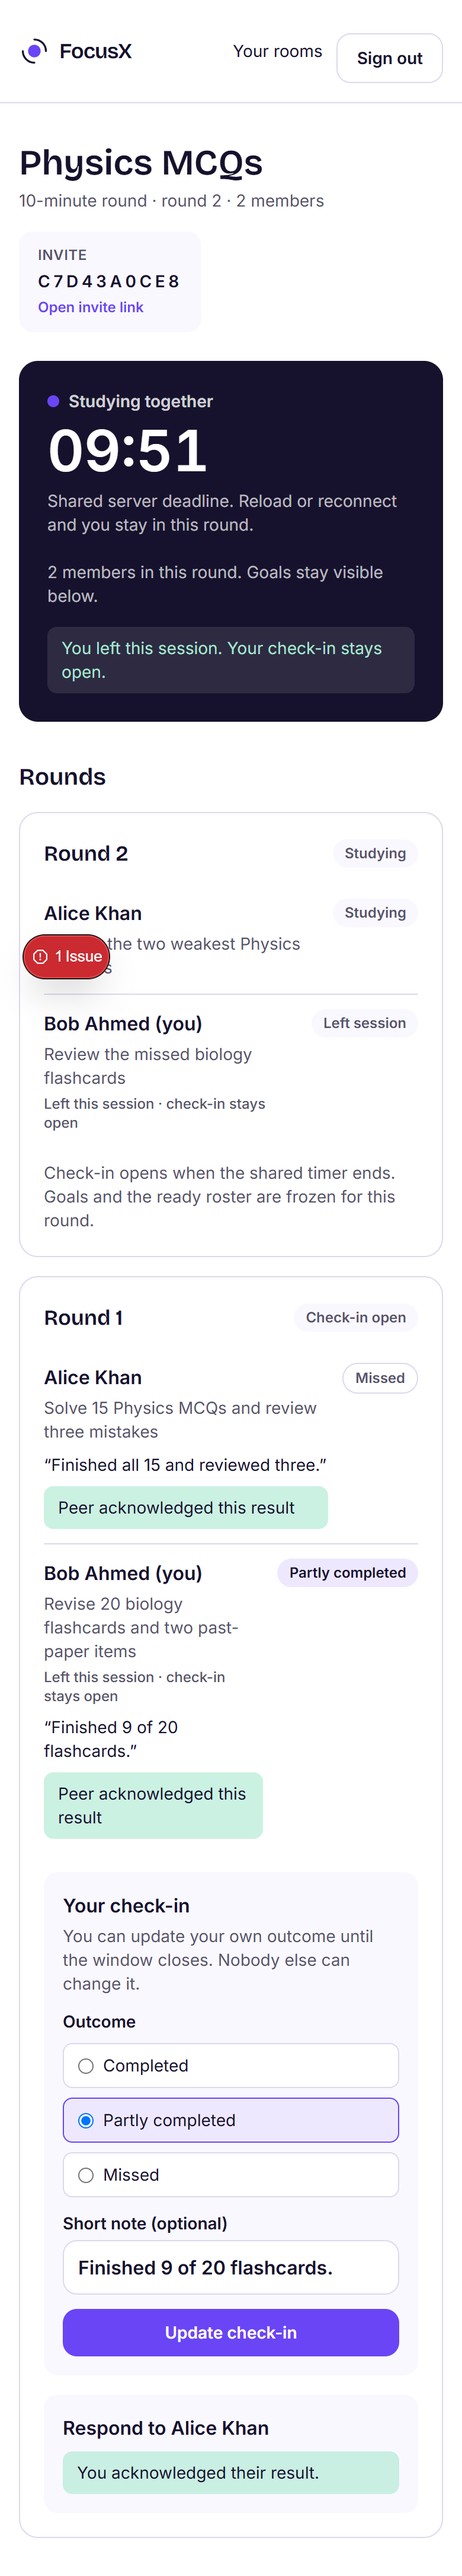
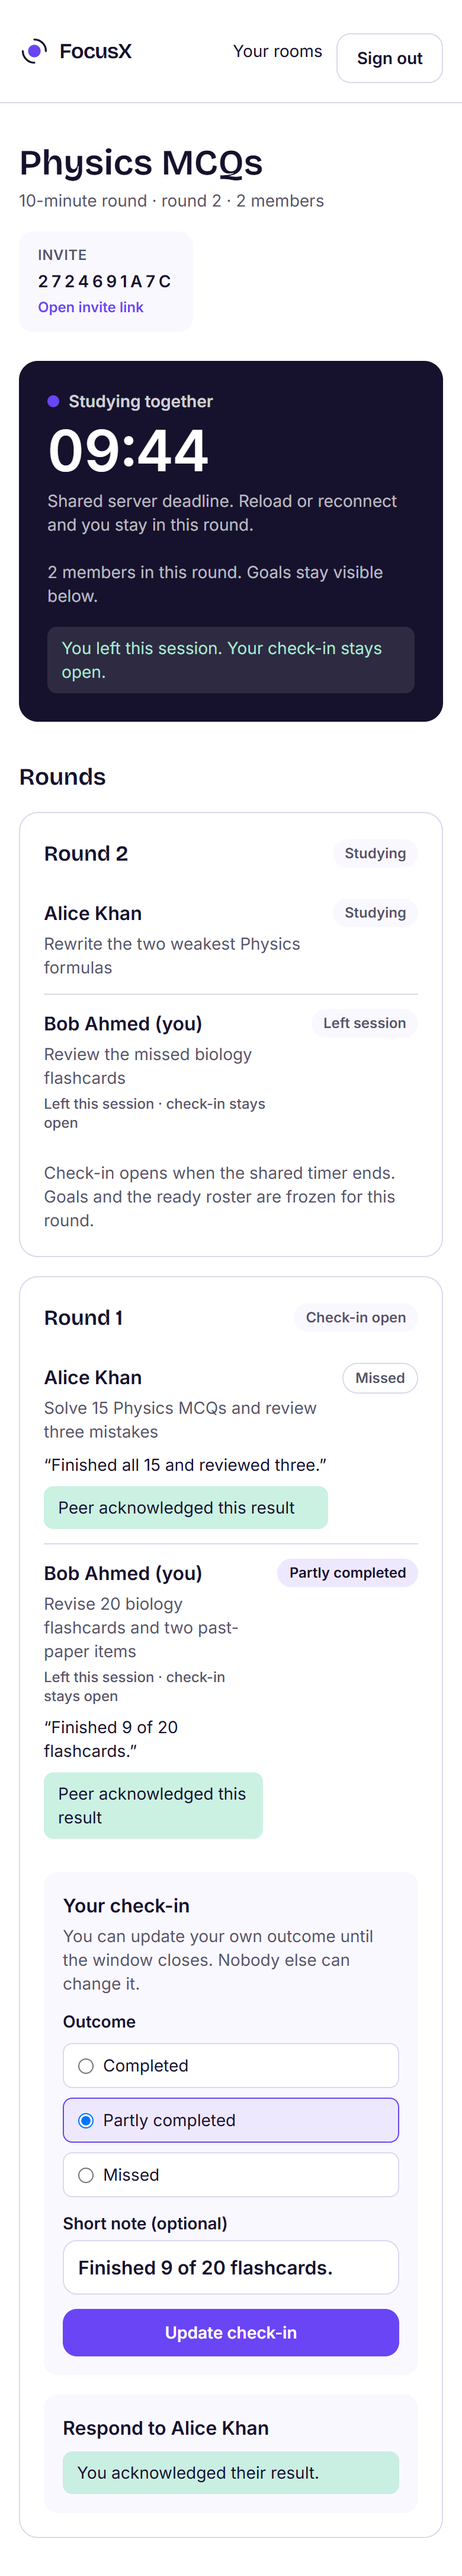
FX-001: fix room updates, countdown drift and sign-up edges
- Poll the room while it waits, studies or checks in so ready state, round
  start and the check-in form appear without a manual reload
- Drive the countdown from the server timestamp plus monotonic elapsed time,
  so a skewed system clock cannot move the deadline
- Only offer a check-in to members of the round's frozen roster; late joiners
  get a clear message and wait for the next round
- Accept uppercase usernames in the browser (server still normalizes) and map
  duplicate sign-ups to a readable message
- Refresh the room list after a round starts
- Cover stale sessions, polling and late joins in the browser checks

diff --git a/apps/web/src/app/rooms/[id]/page.tsx b/apps/web/src/app/rooms/[id]/page.tsx
@@ -73,7 +73,7 @@ export default async function RoomPage({
     members.find((member) => member.user_id === room.host_id)?.full_name ??
     "the host";
   const serverNow = new Date().toISOString();
-  const watching = rounds.some((round) => round.phase !== "closed");
+  const refreshSeconds = latest?.phase === "closed" ? 60 : 15;
 
   const readyPanel = (
     <section className="mt-6 rounded-2xl border border-divider p-5">
@@ -265,6 +265,11 @@ export default async function RoomPage({
                 <p className="rounded-lg bg-white/10 px-3 py-2 text-sm text-mint">
                   You left this session. Your check-in stays open.
                 </p>
+              ) : !liveRound.me ? (
+                <p className="rounded-lg bg-white/10 px-3 py-2 text-sm text-mint">
+                  You joined after this round started. You can join the next
+                  round.
+                </p>
               ) : null}
             </div>
           </section>
@@ -306,7 +311,7 @@ export default async function RoomPage({
 
         {latestCheckin ? readyPanel : null}
 
-        {watching ? <AutoRefresh seconds={15} /> : null}
+        <AutoRefresh seconds={refreshSeconds} />
       </main>
     </>
   );

diff --git a/apps/web/src/components/countdown.tsx b/apps/web/src/components/countdown.tsx
@@ -12,18 +12,24 @@ export function Countdown({
   checkinDeadline: string;
   serverNow: string;
 }) {
-  const [now, setNow] = useState(() => Date.parse(serverNow));
+  const serverNowMs = Date.parse(serverNow);
+  // Elapsed time comes from a monotonic client clock, so a skewed or changed
+  // system clock cannot move the shared deadline. The absolute client clock is
+  // never used for room state.
+  const [elapsed, setElapsed] = useState(0);
 
   useEffect(() => {
-    const tick = () => setNow(Date.now());
+    const started = performance.now();
+    const tick = () => setElapsed(performance.now() - started);
     const kick = setTimeout(tick, 0);
     const timer = setInterval(tick, 1000);
     return () => {
       clearTimeout(kick);
       clearInterval(timer);
     };
-  }, []);
+  }, [serverNowMs]);
 
+  const now = serverNowMs + elapsed;
   const phase = phaseFor(deadline, checkinDeadline, now);
   const remaining = Math.max(0, Date.parse(deadline) - now);
 

diff --git a/apps/web/src/components/auto-refresh.tsx b/apps/web/src/components/auto-refresh.tsx
@@ -3,12 +3,24 @@
 import { useEffect } from "react";
 import { useRouter } from "next/navigation";
 
-export function AutoRefresh({ seconds = 15 }: { seconds?: number }) {
+export function AutoRefresh({ seconds = 10 }: { seconds?: number }) {
   const router = useRouter();
 
   useEffect(() => {
-    const timer = setInterval(() => router.refresh(), seconds * 1000);
-    return () => clearInterval(timer);
+    const refresh = () => {
+      if (document.visibilityState === "visible") router.refresh();
+    };
+
+    const timer = setInterval(refresh, seconds * 1000);
+    const onVisible = () => {
+      if (document.visibilityState === "visible") router.refresh();
+    };
+
+    document.addEventListener("visibilitychange", onVisible);
+    return () => {
+      clearInterval(timer);
+      document.removeEventListener("visibilitychange", onVisible);
+    };
   }, [router, seconds]);
 
   return null;

diff --git a/apps/web/src/app/rooms/[id]/round-card.tsx b/apps/web/src/app/rooms/[id]/round-card.tsx
@@ -68,7 +68,7 @@ export function RoundCard({
 }) {
   const peer =
     round.participants.find((person) => person.user_id === round.peerId) ?? null;
-  const canCheckIn = round.phase === "checkin";
+  const canCheckIn = round.phase === "checkin" && round.me !== null;
   const isLive = round.phase === "studying";
 
   return (
@@ -183,7 +183,7 @@ export function RoundCard({
         </div>
       ) : null}
 
-      {round.phase === "closed" && !round.myOutcome ? (
+      {round.me && round.phase === "closed" && !round.myOutcome ? (
         <p className="mt-3 rounded-lg bg-paper px-3 py-2 text-sm text-muted">
           The check-in window closed without your result. It stays visible as
           missing.

diff --git a/apps/web/src/app/auth/actions.ts b/apps/web/src/app/auth/actions.ts
@@ -56,9 +56,14 @@ export async function signUpAction(
   });
 
   if (error) {
+    const message = error.message.toLowerCase();
+    const taken =
+      message.includes("already") ||
+      message.includes("duplicate") ||
+      message.includes("database error saving new user");
     return {
-      error: error.message.toLowerCase().includes("already")
-        ? "An account already uses that email or username."
+      error: taken
+        ? "That email or username is already in use. Try another, or sign in."
         : error.message,
     };
   }

diff --git a/apps/web/src/app/register/page.tsx b/apps/web/src/app/register/page.tsx
@@ -65,8 +65,8 @@ export default async function RegisterPage({
               className={fieldClass}
               name="username"
               autoComplete="username"
-              pattern="[a-z0-9_]{3,24}"
-              title="3–24 lowercase letters, numbers or underscores"
+              pattern="[A-Za-z0-9_]{3,24}"
+              title="3–24 letters, numbers or underscores"
               required
             />
           </label>

diff --git a/apps/web/src/app/rooms/actions.ts b/apps/web/src/app/rooms/actions.ts
@@ -88,6 +88,7 @@ export async function startRoundAction(
 
   if (error) return { error: error.message };
 
+  revalidatePath("/rooms");
   revalidatePath(`/rooms/${roomId}`);
   return {};
 }

diff --git a/docs/FX-001-GUIDE.md b/docs/FX-001-GUIDE.md
@@ -31,6 +31,7 @@ waiting ──(host starts, 2 ready)──▶ studying ──(deadline)──▶
 - `closed`: read-only history. A missing outcome stays visible as **No check-in**.
 - Leaving sets `round_members.left_at`. It never shortens the other member's deadline and never closes the leaver's check-in.
 - Starting a new round is allowed after the previous deadline, even while earlier check-ins are still open. Old rounds stay on the page until their window closes, then remain in the list as history.
+- A member who joins after a round started is not added to that round's roster. They see the live room and wait for the next round instead of getting a check-in form they cannot submit.
 
 ## 3. Who can read and change what
 
@@ -173,7 +174,7 @@ npx playwright install chromium
 node harness/e2e/fx-001.mjs
 ```
 
-The script uses installed Google Chrome (`channel: "chrome"`); if you use the downloaded Chromium instead, remove the `channel` option. It rewrites the latest room deadline to 20 seconds once, so the check-in window is testable without waiting 10 minutes. It prints `PASS`/`FAIL` per check and saves screenshots to `harness/evidence/`. Last run: 23/23 checks passed; see [the evidence record](../harness/evidence/FX-001.md) for the full table.
+The script uses installed Google Chrome (`channel: "chrome"`); if you use the downloaded Chromium instead, remove the `channel` option. It rewrites the latest room deadline to 20 seconds once, so the check-in window is testable without waiting 10 minutes. It prints `PASS`/`FAIL` per check and saves screenshots to `harness/evidence/`. Last run: 26/26 checks passed; see [the evidence record](../harness/evidence/FX-001.md) for the full table.
 
 ## 10. Known limits and next tasks
 
@@ -182,7 +183,7 @@ The script uses installed Google Chrome (`channel: "chrome"`); if you use the do
 | Invite codes do not expire and cannot be revoked; no rate limiting on joins | FX-004 (persistent circles and outside invitations) |
 | Pairing is a fixed cyclic offset; no rotation across rounds, no absent-reviewer fallback | FX-006 (larger-circle accountability) |
 | No personal profile page, dashboard or private history yet | FX-003 |
-| No realtime push; the room refreshes every 15 seconds and on actions | Acceptable for R0; revisit when rooms grow |
+| No realtime push; the room polls every 15 seconds while setting up, studying or checking in, every 60 seconds once a round is closed, and refreshes on actions | Acceptable for R0; revisit when rooms grow |
 | The 24-hour check-in window was verified by moving the deadline in the local database, not by waiting a day | Repeat on the preview if needed |
 | Local email confirmations are disabled; hosted environments must confirm accounts before signing in | Environment setup |
 | No Vercel preview from this environment; CI runs on the pull request | Zia connects Vercel and the development Supabase project |
